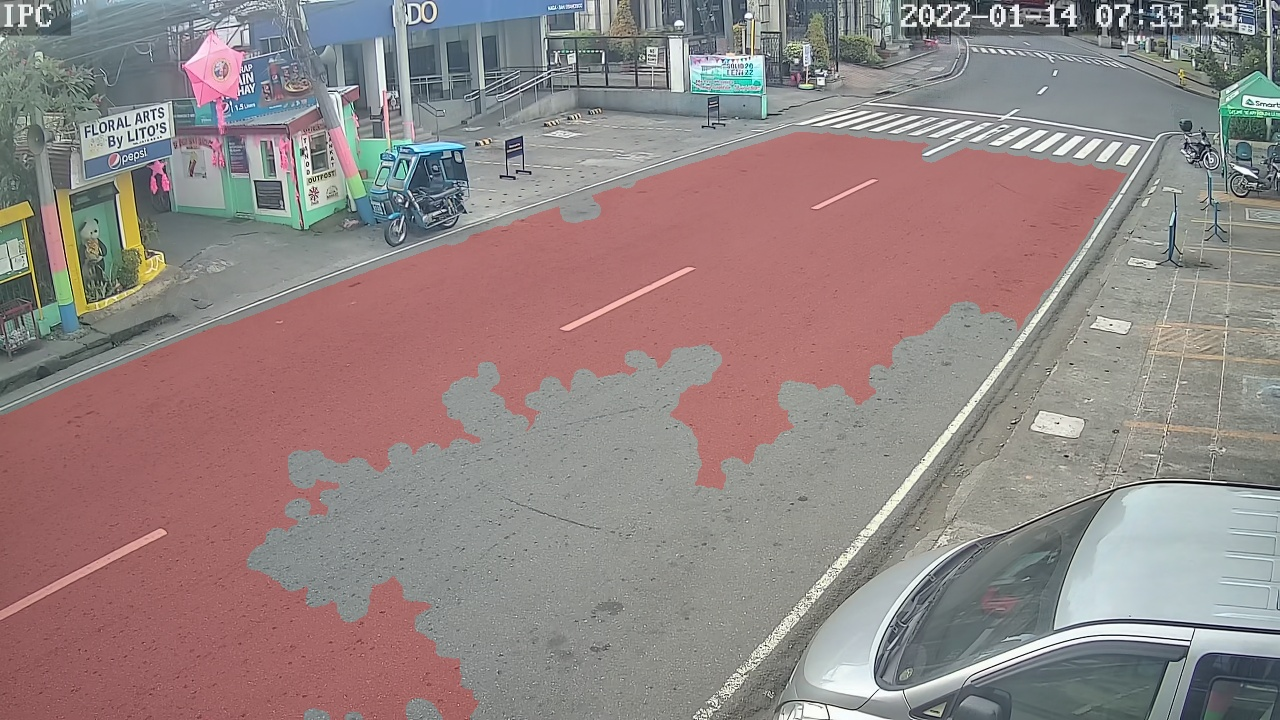
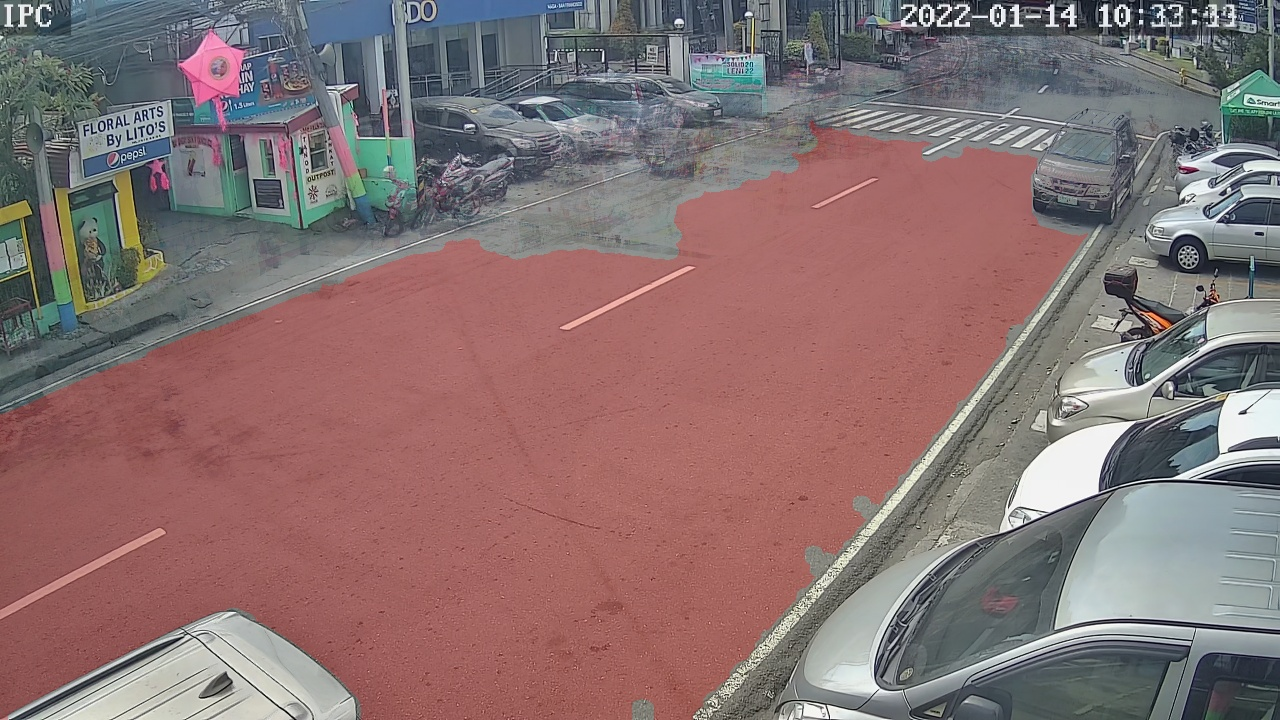
Modified - road.py: changed the thresholds of canny

diff --git a/Road_Detection/road.py b/Road_Detection/road.py
@@ -58,10 +58,10 @@ def detect_road(img_orig):
     #performing canny edge detection
     sigma = 0.33
     lower = int(max(0, (1.0 - sigma) * v))
-    upper = lower * 2.5
+    upper = lower * 3
 
 
-    edges = cv2.Canny(img,lower,upper,3) # default 75, 200
+    edges = cv2.Canny(img,lower,upper,1) # default 75, 200
 
 
     # Inverting the edges image then running erosion to make the edges thicker and eliminate false edges

diff --git a/params.py b/params.py
@@ -7,7 +7,7 @@ from pathlib import Path
 yolo_model='yolov5s.pt'
 deep_sort_model='osnet_x0_25'
 output='inference/output'
-imgsz=[1280]
+imgsz=[640]
 conf_thres=0.25 # .25
 iou_thres=0.5 # .5
 fourcc='mp4v'
